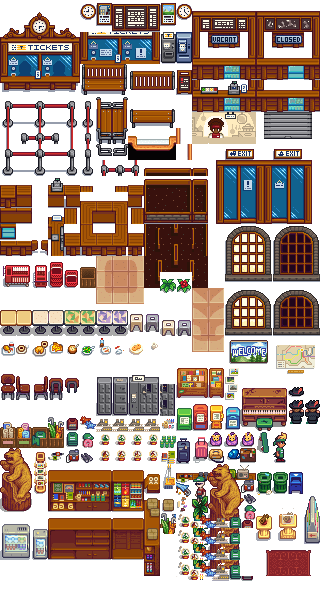
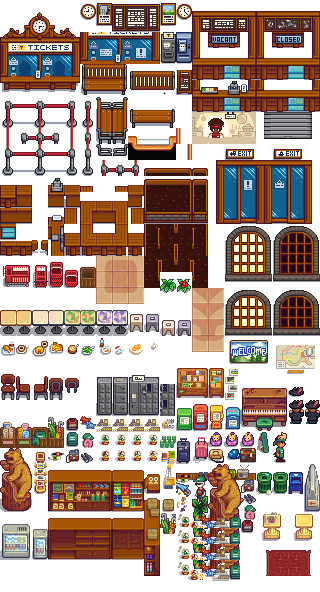
remove wood on pedestal when the 'rare wood' is purchased
Changes in the spritesheet:
- removed the wood-without-glass pedestal;
- created an empty pedestal based on the wood-with-glass one;
- and rearranged that part of the spritesheet to fit the new pedestal.

Changed region(s): [[0.75, 0.7601, 1.0, 0.9426], [0.75, 0.973, 0.7812, 1.0]]

diff --git a/CentralStation/Framework/ContentManager.cs b/CentralStation/Framework/ContentManager.cs
@@ -2,7 +2,9 @@ using System;
 using System.Collections.Generic;
 using System.Diagnostics.CodeAnalysis;
 using System.Linq;
+using System.Reflection;
 using Microsoft.Xna.Framework;
+using Netcode;
 using Pathoschild.Stardew.CentralStation.Framework.Constants;
 using Pathoschild.Stardew.CentralStation.Framework.ContentModels;
 using Pathoschild.Stardew.Common;
@@ -13,7 +15,9 @@ using StardewValley;
 using StardewValley.Extensions;
 using StardewValley.GameData;
 using StardewValley.Locations;
+using StardewValley.Network;
 using StardewValley.TokenizableStrings;
+using StardewValley.Util;
 using xTile;
 using xTile.Layers;
 using xTile.Tiles;
@@ -381,6 +385,20 @@ internal class ContentManager
         return true;
     }
 
+    /// <summary>Update the Central Station map when the rare wood is sold.</summary>
+    /// <param name="map">The map to edit.</param>
+    public void OnRareWoodSold(Map map)
+    {
+        IAssetDataForMap editor = this.ContentHelper.GetPatchHelper(map, map.assetPath).AsMap();
+
+        editor.PatchMap(
+            source: this.ContentHelper.Load<Map>($"Maps/{Constant.ModId}_EmptyWoodPedestal"),
+            sourceArea: new Rectangle(0, 0, 2, 3),
+            targetArea: new Rectangle(57, 25, 2, 3),
+            PatchMapMode.ReplaceByLayer
+        );
+    }
+
 
     /*********
     ** Private methods
@@ -457,8 +475,10 @@ internal class ContentManager
     /// <param name="assetData">The asset data.</param>
     private void EditCentralStationMap(IAssetData assetData)
     {
-        var map = assetData.AsMap().Data;
+        var editor = assetData.AsMap();
+        var map = editor.Data;
 
+        // dark station
         if (this.StationDark.Value)
         {
             // make it darker
@@ -510,8 +530,16 @@ internal class ContentManager
                 }
             }
         }
-        else
-            this.AddCentralStationTourists(assetData.AsMap());
+
+        // empty wood pedestal if sold
+        SynchronizedShopStock syncedShop = Game1.player.team.synchronizedShopStock;
+        string woodSyncId = $"{Constant.ModId}_GiftShop/{Game1.player.UniqueMultiplayerID}/Wood";
+        var syncedStock = syncedShop.GetType().GetField("stockDictionary", BindingFlags.Instance | BindingFlags.NonPublic | BindingFlags.Public)?.GetValue(syncedShop) as NetStringDictionary<int, NetInt>;
+        if (syncedStock != null && syncedStock.TryGetValue(woodSyncId, out int stock) && stock <= 0)
+            this.OnRareWoodSold(map);
+
+        // add tourists
+        this.AddCentralStationTourists(editor);
     }
 
     /// <summary>Add random tourist NPCs to the Central Station map.</summary>

diff --git a/CentralStation/ModEntry.cs b/CentralStation/ModEntry.cs
@@ -148,6 +148,9 @@ internal class ModEntry : Mod
             case MapSubActions.ExitDoor:
                 return this.OnCentralExitDoorAction();
 
+            case MapSubActions.GiftShop:
+                return this.OnCentralGiftShopAction();
+
             case MapSubActions.PopUpShop:
                 return this.OnCentralPopupShopAction();
 
@@ -264,6 +267,23 @@ internal class ModEntry : Mod
         }
 
         return true;
+    }
+
+    /// <summary>Handle the player activating a <see cref="MapSubActions.GiftShop"/> action in the Central Station.</summary>
+    /// <returns>Returns whether the action was handled.</returns>
+    private bool OnCentralGiftShopAction()
+    {
+        if (Utility.TryOpenShopMenu($"{Constant.ModId}_GiftShop", null as string) && Game1.activeClickableMenu is ShopMenu shop)
+            shop.onPurchase = OnPurchase;
+        return true;
+
+        bool OnPurchase(ISalable salable, Farmer who, int countTaken, ItemStockInformation stock)
+        {
+            if (salable.QualifiedItemId == "(O)388" && Game1.currentLocation.Name == Constant.CentralStationLocationId)
+                this.ContentManager.OnRareWoodSold(Game1.currentLocation.Map);
+
+            return false;
+        }
     }
 
     /// <summary>Handle the player activating a <see cref="MapSubActions.PopUpShop"/> action in the Central Station.</summary>

diff --git a/CentralStation/Framework/Constants/MapSubActions.cs b/CentralStation/Framework/Constants/MapSubActions.cs
@@ -12,14 +12,17 @@ internal class MapSubActions
     /// <summary>The sub-action which checks the exit door.</summary>
     public const string ExitDoor = "ExitDoor";
 
+    /// <summary>The sub-action which opens the gift shop.</summary>
+    public const string GiftShop = "GiftShop";
+
+    /// <summary>The sub-action which opens the pop-up shop.</summary>
+    public const string PopUpShop = "PopUpShop";
+
     /// <summary>The sub-action which opens a destination menu through the main Central Station ticket booth.</summary>
     public const string TicketBooth = "TicketBooth";
 
     /// <summary>The sub-action which opens a destination menu through the main Central Station ticket machine.</summary>
     public const string TicketMachine = "TicketMachine";
-
-    /// <summary>The sub-action which opens the pop-up shop.</summary>
-    public const string PopUpShop = "PopUpShop";
 
     /// <summary>The sub-action which opens a destination menu.</summary>
     public const string TouristDialogue = "TouristDialogue";

diff --git a/CentralStation/docs/release-notes.md b/CentralStation/docs/release-notes.md
@@ -7,6 +7,7 @@
 * Added a new dog tourist (thanks to 6480 for the sprites and Kisaa for the map edit!).
 * Added employee lounge area with a new resident.
 * Added [C# mod API](author-guide.md#c-mod-api) to get the current available stops.
+* The 'rare wood' in the gift shop now has a pedestal in the gift shop area.
 * Fixed destinations from old Bus Locations and Train Station content packs not always hidden when they should be (e.g. when already in their location).
 
 ## 1.3.0
